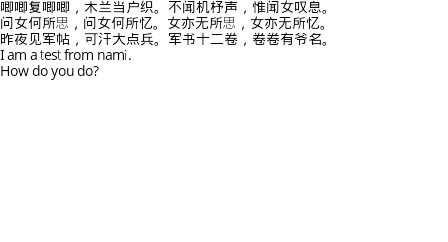
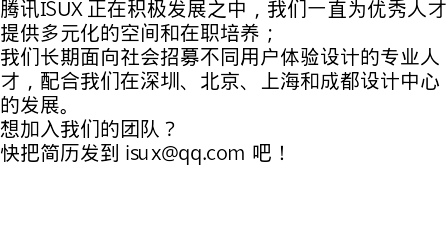
改变图片
改变图片

Changed region(s): [[0.0, 0.0, 1.0, 0.6653], [0.375, 0.4917, 0.4062, 0.5496]]

diff --git a/public/index.html b/public/index.html
@@ -155,13 +155,13 @@
 					<div class="select-wrap">
 						<select name="size" id="size" title="字体大小">
 							<option value="12px">12px</option>
-							<option value="14px" selected="selected">14px</option>
+							<option value="14px">14px</option>
 							<option value="15px">15px</option>
 							<option value="16px">16px</option>
 							<option value="17px">17px</option>
 							<option value="18px">18px</option>
 							<option value="19px">19px</option>
-							<option value="20px">20px</option>
+							<option value="20px" selected="selected">20px</option>
 							<option value="21px">21px</option>
 							<option value="22px">22px</option>
 							<option value="23px">23px</option>
@@ -206,7 +206,7 @@
 							<option value="12px">12px</option>
 							<option value="14px">14px</option>
 							<option value="15px">15px</option>
-							<option value="16px" selected="selected">16px</option>
+							<option value="16px">16px</option>
 							<option value="17px">17px</option>
 							<option value="18px">18px</option>
 							<option value="19px">19px</option>
@@ -214,7 +214,7 @@
 							<option value="21px">21px</option>
 							<option value="22px">22px</option>
 							<option value="23px">23px</option>
-							<option value="24px">24px</option>
+							<option value="24px" selected="selected">24px</option>
 							<option value="25px">25px</option>
 							<option value="26px">26px</option>
 							<option value="27px">27px</option>
@@ -237,15 +237,8 @@
 					<div class="pop-tips" title="关闭">tips:若终端返回延迟，请点击右方刷新终端～<a href="javascript:;" class="close">×</a></div>
 				</div>
 				<div class="bd">
-					<textarea id="content" class="Source-Han-Light">唧唧复唧唧，木兰当户织。不闻机杼声，惟闻女叹息。
-问女何所思，问女何所忆。女亦无所思，女亦无所忆。
-昨夜见军帖，可汗大点兵。军书十二卷，卷卷有爷名。
-爷无大儿，木兰无长兄。愿为市鞍马，从此替爷征。
-东市买骏马，西市买鞍鞯，南市买辔头，北市买长鞭。
-旦辞爷娘去，暮宿黄河边。
-不闻爷娘唤女声，但闻黄河流水鸣溅溅。
-旦辞黄河去，暮至黑山头。
-不闻爷娘唤女声，但闻燕山胡骑鸣啾啾。</textarea>
+					<textarea id="content" class="Source-Han-Light">腾讯ISUX 正在积极发展之中，我们一直为优秀人才提供多元化的空间和在职培养；
+我们长期面向社会招募不同用户体验设计的专业人才，配合我们在深圳、北京、上海和成都设计中心的发展。想加入我们的团队？快把简历发到 isux@qq.com 吧！</textarea>
 				</div>
 			</div>
 		</div>

diff --git a/public/css/style.css b/public/css/style.css
@@ -15,8 +15,8 @@
 	color: #fff;background-color: #16a085;text-decoration: none;padding: 5px 10px;transition:all .2s ease-in;-webkit-transition:all .2s ease-in;
 	border-radius: 3px;}
 #link:hover,#relink:hover,#reload:hover{background-color: #1abc9c;}
-.isuxlogo{height: 26px;vertical-align: middle;}
-.tonylogo{height: 80px;vertical-align: middle;}
+.isuxlogo{height: 50px;vertical-align: middle;}
+.tonylogo{height: 80px;vertical-align: middle;margin-top: -10px;}
 
 .control-wrap{height: 280px;width: 100%;background-color: #383839;background-image: url(../images/bg.png);}
 .control-box{width: 980px;height: 265px;background-color: #fff;position: absolute;top: 46px;}
@@ -60,7 +60,7 @@
 #submit{background-color: #16a085;color: #fff;right: 10px;}
 #css{right: 60px;}
 #reset{right: 110px;}
-#content{resize:none;width: 960px;height: 210px;padding: 10px;border: none;}
+#content{resize:none;width: 960px;height: 210px;padding: 10px;border: none;font-size: 20px;line-height: 24px;}
 #content:focus{outline: none;}
 
 .show-wrap{height: 662px;padding-top: 50px;width: 100%;background-color: #e9e9e9;font-size: 0;letter-spacing: -5px;}

diff --git a/public/js/preview.js b/public/js/preview.js
@@ -14,12 +14,12 @@ var testLinkTime = 5000;
 var defaultText = "唧唧复唧唧，木兰当户织。不闻机杼声，惟闻女叹息。\n问女何所思，问女何所忆。女亦无所思，女亦无所忆。\n昨夜见军帖，可汗大点兵。军书十二卷，卷卷有爷名。\n阿爷无大儿，木兰无长兄。愿为市鞍马，从此替爷征。\n东市买骏马，西市买鞍鞯，南市买辔头，北市买长鞭。\n旦辞爷娘去，暮宿黄河边。\n不闻爷娘唤女声，但闻黄河流水鸣溅溅。\n旦辞黄河去，暮至黑山头。\n不闻爷娘唤女声，但闻燕山胡骑鸣啾啾。";
 var wordStr = defaultText;//文本
 var family = "Arial";//字体
-var size = "14px";//尺寸
+var size = "20px";//尺寸
 var weight = "normal";//字重
 var style = "normal";//字形
 var color = "#000";//颜色
 var bgcolor = "#fff";//背景色
-var lineheight = "16px";//行高
+var lineheight = "20px";//行高
 
 // 检查是否加在到socket.js
 if(io === undefined){
